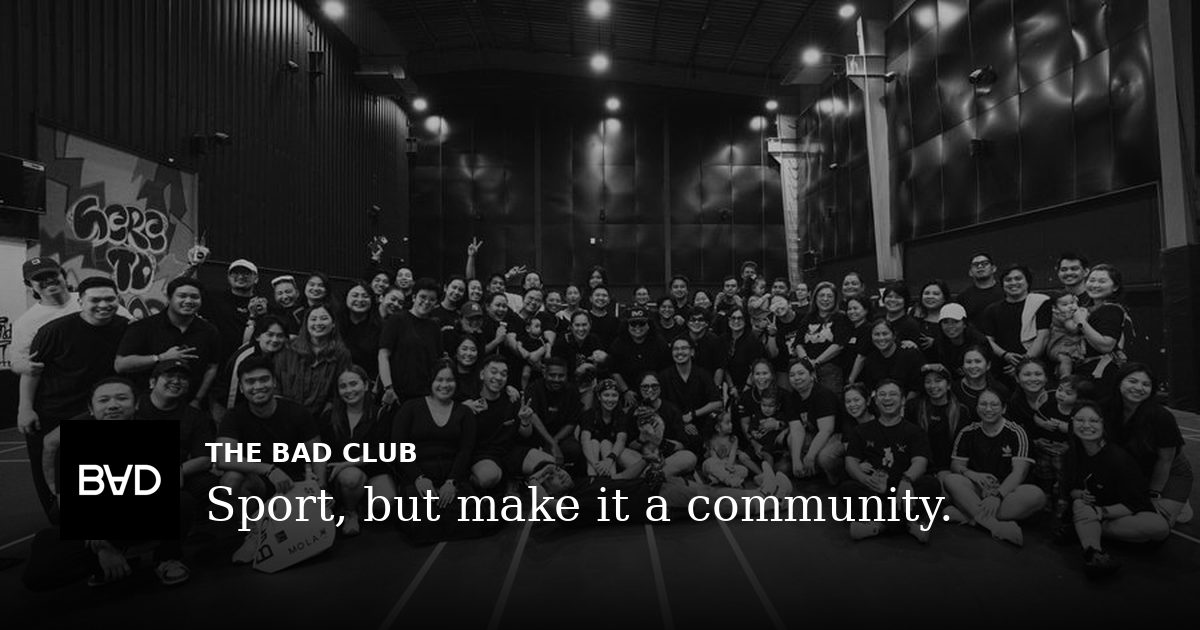
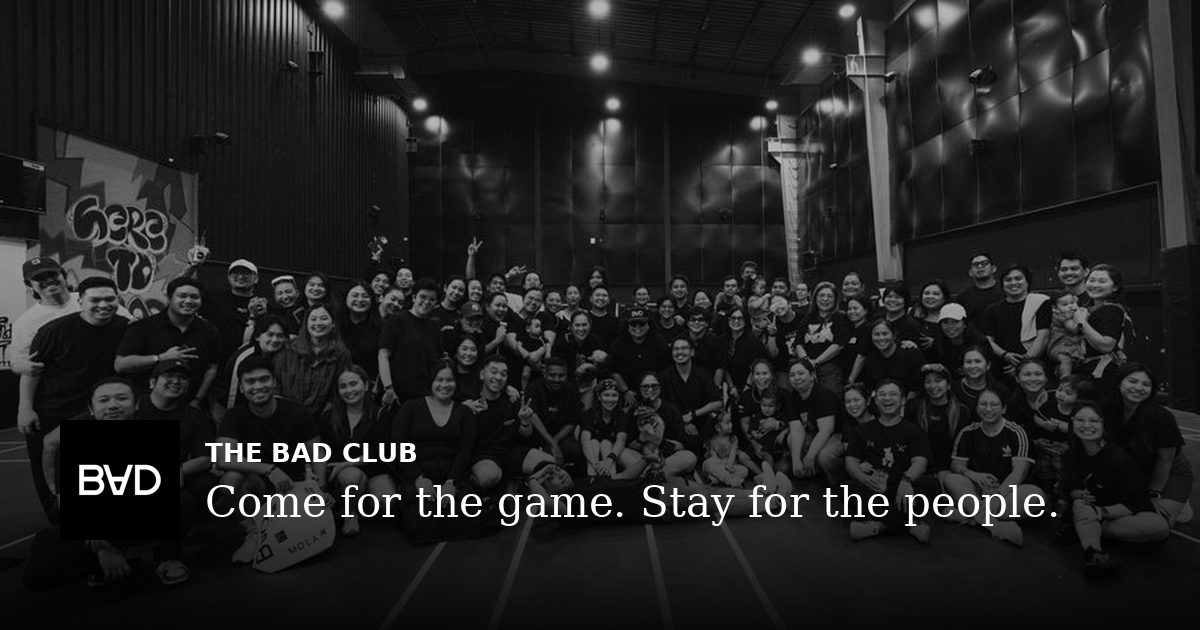
Legal: 16+, Sharjah; new tagline for link previews
Claude-Session: https://claude.ai/code/session_01NEhqEEAYbMvGiQVgM2Mu5Q

Changed region(s): [[0.1542, 0.754, 0.8942, 0.8444]]

diff --git a/terms.html b/terms.html
@@ -11,9 +11,9 @@ footer{margin-top:40px;padding-top:16px;border-top:1px solid var(--line);color:v
 <body><main><div class="top"><b>BAD</b><a href="./">Back to the app</a></div>
 <h2>Terms of use</h2>
 <p>Last updated 6 November 2026.</p>
-<p>These terms apply when you use the BAD App or join a BAD session, Off Court plan or event. The app and club are run by The BAD Club LLC, Dubai, UAE (licence No. 2649469.01). By making an account or booking, you agree to them.</p>
+<p>These terms apply when you use the BAD App or join a BAD session, Off Court plan or event. The app and club are run by The BAD Club LLC, Sharjah, UAE (licence No. 2649469.01). By making an account or booking, you agree to them.</p>
 <p><strong>1. Joining</strong></p>
-<p>You make a card, and an admin approves it before the full app opens. While you wait, you can book as a guest. You must be 18, or 16 or 17 with a parent's or guardian's permission. Keep your details true and your password to yourself. We can pause or remove an account that breaks these terms or the house rules.</p>
+<p>You make a card, and an admin approves it before the full app opens. While you wait, you can book as a guest. You must be 16 or older. Keep your details true and your password to yourself. We can pause or remove an account that breaks these terms or the house rules.</p>
 <p><strong>2. Booking and paying</strong></p>
 <p>Booking holds your spot. You pay the fee shown for that session before or on the day: cash, bank transfer, Ziina or Careem Pay. Drop-outs:</p>
 <ul>
@@ -36,6 +36,6 @@ footer{margin-top:40px;padding-top:16px;border-top:1px solid var(--line);color:v
 <p><strong>8. Changes</strong></p>
 <p>We may update these terms. We'll change the date at the top and tell members in the app. If you keep using BAD, the new terms apply.</p>
 <p><strong>9. Law</strong></p>
-<p>These terms follow UAE law, as applied in Dubai, and the Dubai courts handle any dispute.</p>
+<p>These terms follow UAE law, as applied in Sharjah, and the Sharjah courts handle any dispute.</p>
 <p>Questions: thebadclub.co@gmail.com.</p>
 <footer><b>The BAD Club LLC</b> · License No. 2649469.01 · <a href="privacy.html">Privacy</a> · <a href="terms.html">Terms</a></footer></main></body></html>

diff --git a/privacy.html b/privacy.html
@@ -11,7 +11,7 @@ footer{margin-top:40px;padding-top:16px;border-top:1px solid var(--line);color:v
 <body><main><div class="top"><b>BAD</b><a href="./">Back to the app</a></div>
 <h2>Privacy policy</h2>
 <p>Last updated 6 November 2026.</p>
-<p>This explains what the BAD App keeps about you, why, and what you can do about it. The app is run by The BAD Club LLC, Dubai, UAE (licence No. 2649469.01), called "BAD", "we" or "us" here.</p>
+<p>This explains what the BAD App keeps about you, why, and what you can do about it. The app is run by The BAD Club LLC, Sharjah, UAE (licence No. 2649469.01), called "BAD", "we" or "us" here.</p>
 <p><strong>What we keep</strong></p>
 <ul>
 <li><strong>Your account:</strong> your email address, and your password if you don't sign in with Google. Passwords are handled by Google Firebase; we never see them.</li>
@@ -37,7 +37,7 @@ footer{margin-top:40px;padding-top:16px;border-top:1px solid var(--line);color:v
 <p><strong>Your rights</strong></p>
 <p>You can see and change your card anytime in My BAD. You can ask us for a copy of what we hold, ask us to correct it, or delete your account yourself in My BAD (Delete my account, at the bottom). For anything else, email thebadclub.co@gmail.com and we'll reply within 30 days.</p>
 <p><strong>Children</strong></p>
-<p>BAD is for players 18 and over. Players aged 16 and 17 can join with a parent's or guardian's permission. We don't knowingly keep data about anyone under 16.</p>
+<p>BAD is for players aged 16 and over. We don't knowingly keep data about anyone younger.</p>
 <p><strong>Changes</strong></p>
 <p>If we change this policy, we'll update the date at the top and tell members in the app.</p>
 <footer><b>The BAD Club LLC</b> · License No. 2649469.01 · <a href="privacy.html">Privacy</a> · <a href="terms.html">Terms</a></footer></main></body></html>

diff --git a/index.html b/index.html
@@ -7,7 +7,7 @@
 <title>BAD · The BAD Club</title>
 <meta name="description" content="The BAD Club app: your player card, weekly badminton, volleyball and more, points and the BADDIES community.">
 <meta property="og:type" content="website"><meta property="og:site_name" content="The BAD Club">
-<meta property="og:title" content="BAD · The BAD Club"><meta property="og:description" content="Sport, but make it a community. Book a spot, earn points, meet the BADDIES.">
+<meta property="og:title" content="BAD · The BAD Club"><meta property="og:description" content="Come for the game. Stay for the people. Book a spot, earn points, meet the BADDIES.">
 <meta property="og:image" content="https://the-bad-club.github.io/bad-app/assets/og.jpg"><meta property="og:image:width" content="1200"><meta property="og:image:height" content="630">
 <meta name="twitter:card" content="summary_large_image">
 <link rel="manifest" href="manifest.webmanifest"><meta name="theme-color" content="#000000">

diff --git a/src/app/1-head.html b/src/app/1-head.html
@@ -1,7 +1,7 @@
 <title>BAD · The BAD Club</title>
 <meta name="description" content="The BAD Club app: your player card, weekly badminton, volleyball and more, points and the BADDIES community.">
 <meta property="og:type" content="website"><meta property="og:site_name" content="The BAD Club">
-<meta property="og:title" content="BAD · The BAD Club"><meta property="og:description" content="Sport, but make it a community. Book a spot, earn points, meet the BADDIES.">
+<meta property="og:title" content="BAD · The BAD Club"><meta property="og:description" content="Come for the game. Stay for the people. Book a spot, earn points, meet the BADDIES.">
 <meta property="og:image" content="https://the-bad-club.github.io/bad-app/assets/og.jpg"><meta property="og:image:width" content="1200"><meta property="og:image:height" content="630">
 <meta name="twitter:card" content="summary_large_image">
 <link rel="manifest" href="manifest.webmanifest"><meta name="theme-color" content="#000000">

diff --git a/legal/terms.md b/legal/terms.md
@@ -2,11 +2,11 @@
 
 Last updated 6 November 2026.
 
-These terms apply when you use the BAD App or join a BAD session, Off Court plan or event. The app and club are run by The BAD Club LLC, Dubai, UAE (licence No. 2649469.01). By making an account or booking, you agree to them.
+These terms apply when you use the BAD App or join a BAD session, Off Court plan or event. The app and club are run by The BAD Club LLC, Sharjah, UAE (licence No. 2649469.01). By making an account or booking, you agree to them.
 
 **1. Joining**
 
-You make a card, and an admin approves it before the full app opens. While you wait, you can book as a guest. You must be 18, or 16 or 17 with a parent's or guardian's permission. Keep your details true and your password to yourself. We can pause or remove an account that breaks these terms or the house rules.
+You make a card, and an admin approves it before the full app opens. While you wait, you can book as a guest. You must be 16 or older. Keep your details true and your password to yourself. We can pause or remove an account that breaks these terms or the house rules.
 
 **2. Booking and paying**
 
@@ -45,6 +45,6 @@ We may update these terms. We'll change the date at the top and tell members in 
 
 **9. Law**
 
-These terms follow UAE law, as applied in Dubai, and the Dubai courts handle any dispute.
+These terms follow UAE law, as applied in Sharjah, and the Sharjah courts handle any dispute.
 
 Questions: thebadclub.co@gmail.com.

diff --git a/legal/privacy.md b/legal/privacy.md
@@ -2,7 +2,7 @@
 
 Last updated 6 November 2026.
 
-This explains what the BAD App keeps about you, why, and what you can do about it. The app is run by The BAD Club LLC, Dubai, UAE (licence No. 2649469.01), called "BAD", "we" or "us" here.
+This explains what the BAD App keeps about you, why, and what you can do about it. The app is run by The BAD Club LLC, Sharjah, UAE (licence No. 2649469.01), called "BAD", "we" or "us" here.
 
 **What we keep**
 
@@ -38,7 +38,7 @@ You can see and change your card anytime in My BAD. You can ask us for a copy of
 
 **Children**
 
-BAD is for players 18 and over. Players aged 16 and 17 can join with a parent's or guardian's permission. We don't knowingly keep data about anyone under 16.
+BAD is for players aged 16 and over. We don't knowingly keep data about anyone younger.
 
 **Changes**
 
